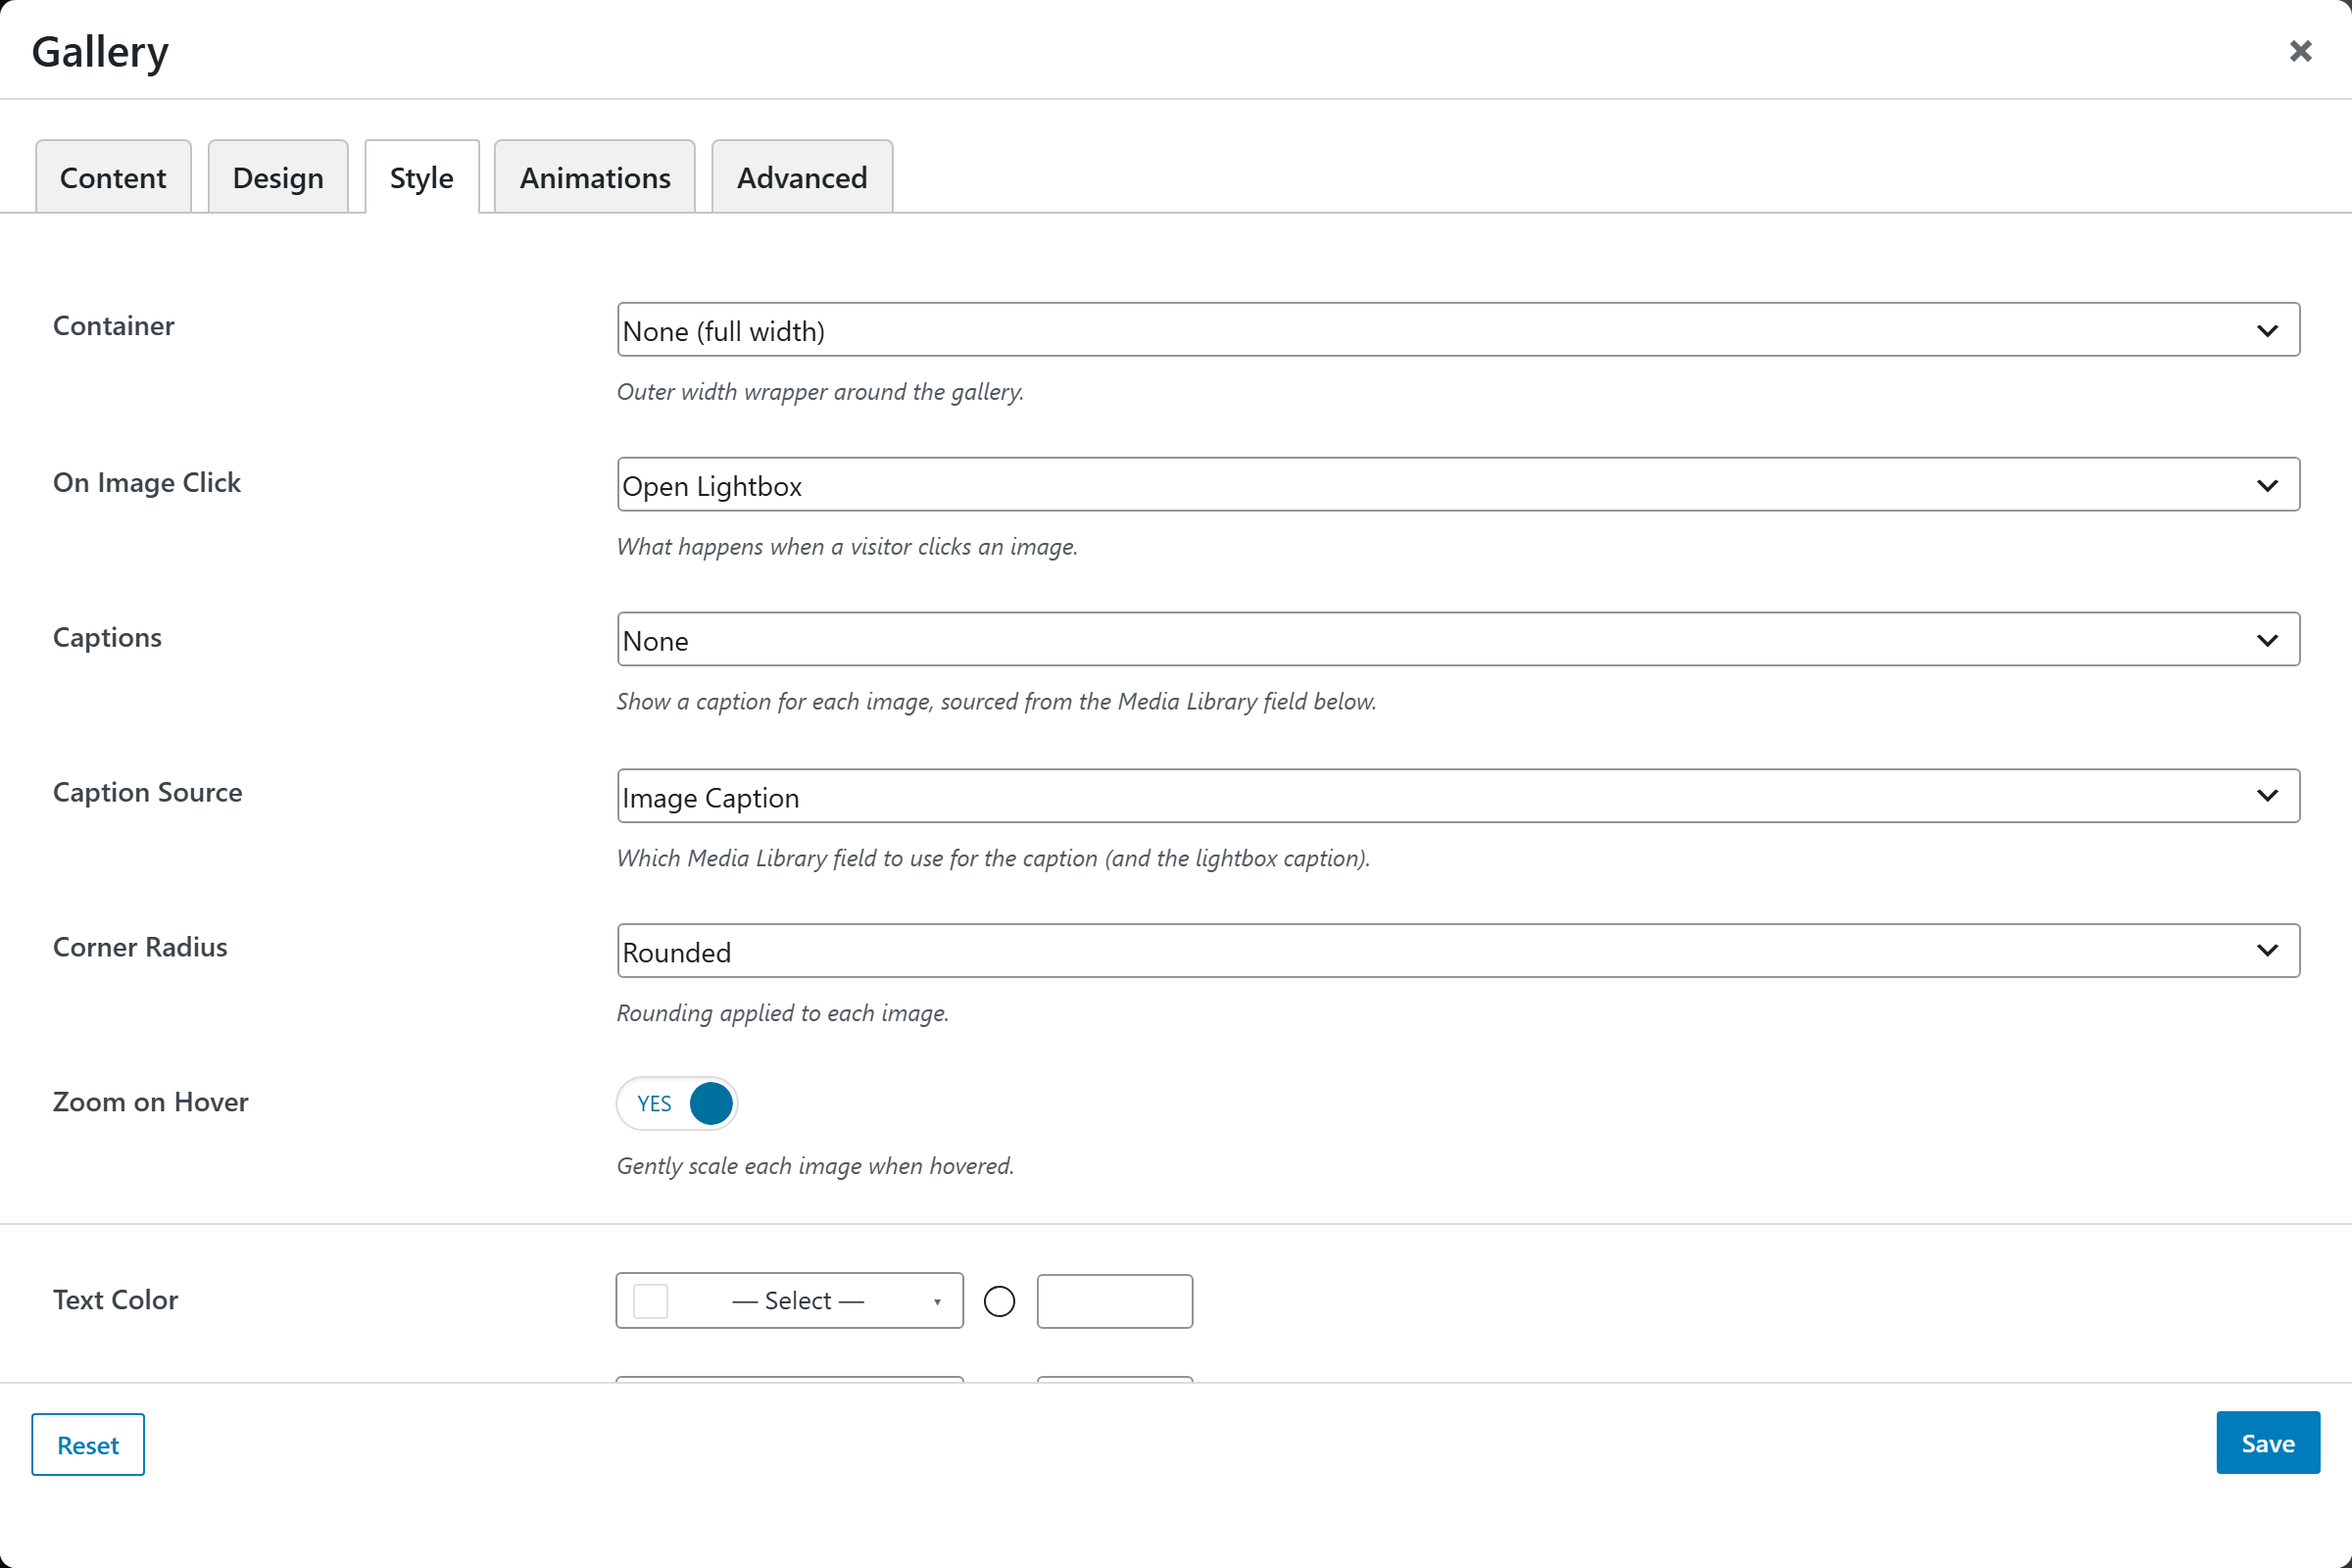
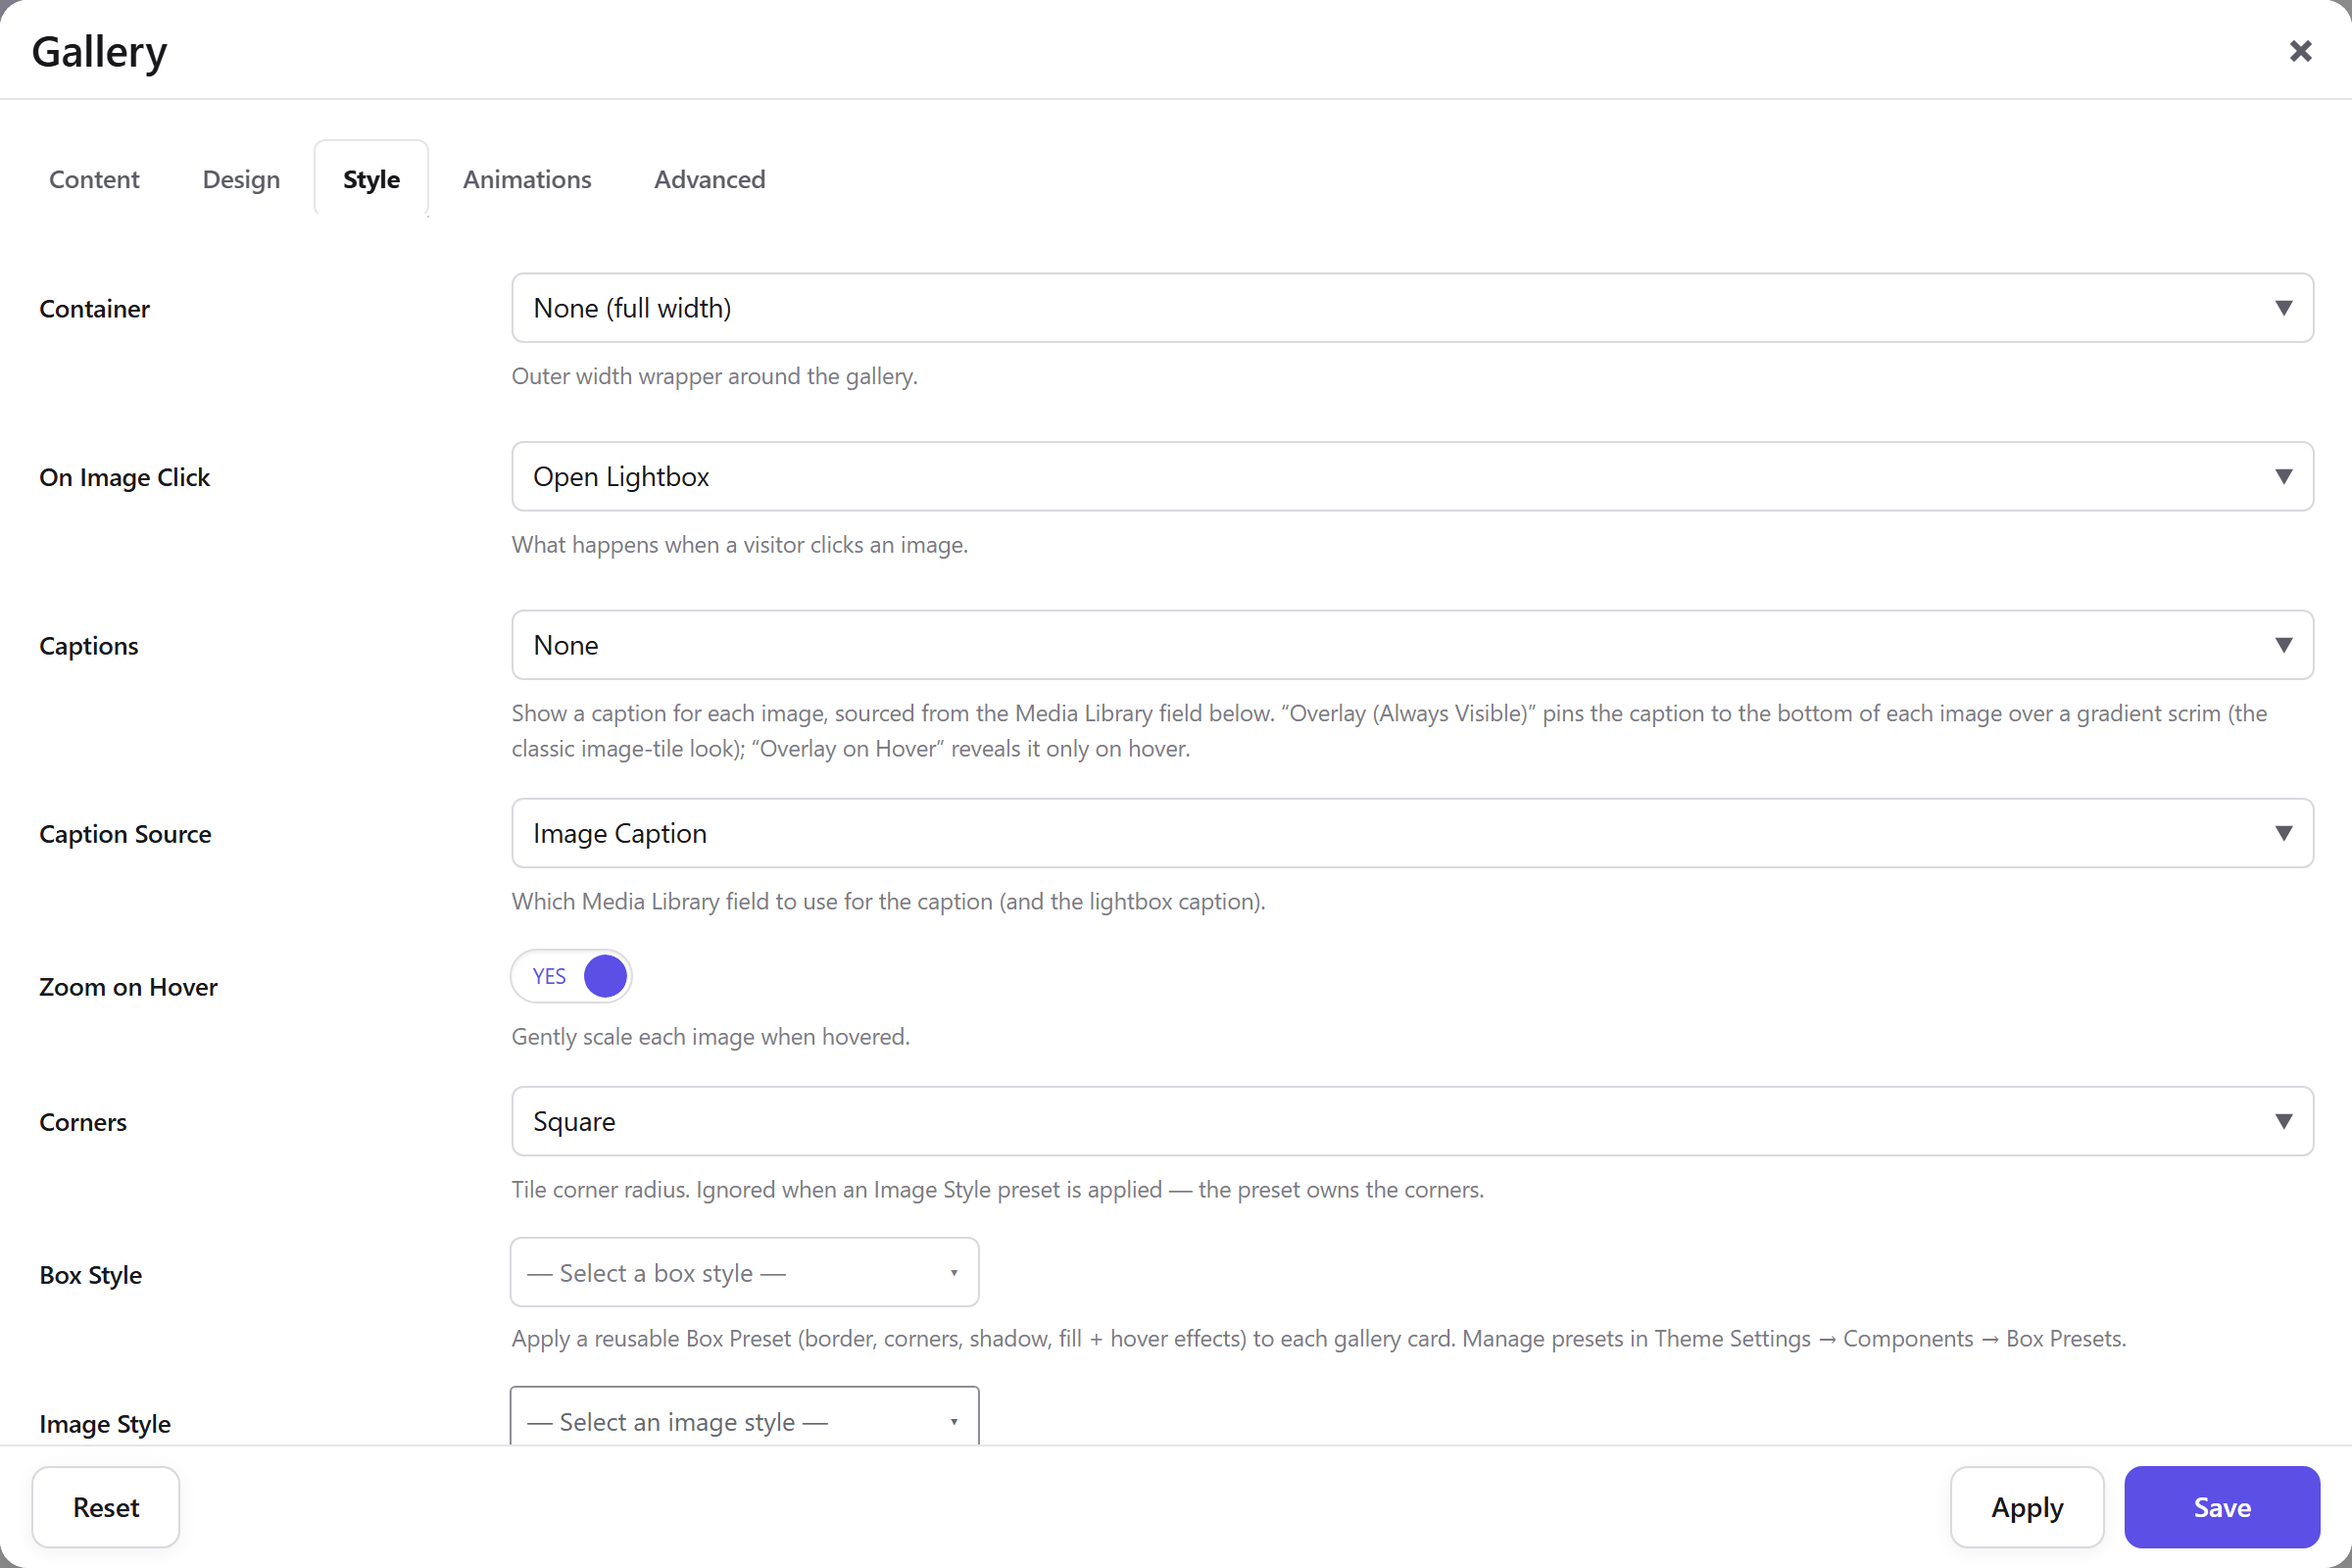
Gallery docs: the new Corners option (square by default; the Image Style preset owns the corners) + a re-captured Style panel; correct the 2x display widths the sizer found in lottie / map / media-image / media-video

diff --git a/docs/shortcodes/media-elements/media-image.md b/docs/shortcodes/media-elements/media-image.md
@@ -19,7 +19,7 @@ Give every image its real width and height (or an aspect ratio) so the browser r
 
 ## Content
 
-<img src="/img/shortcodes/media-image-content.png" alt="Image options panel — Content tab" width="1200" />
+<img src="/img/shortcodes/media-image-content.png" alt="Image options panel — Content tab" width="750" />
 
 - **Choose Image** — upload a new image or pick one from the media library. Source of truth is a WordPress attachment, so the alt text comes from the media library (never from the URL). Pick a source larger than the display size below so it stays sharp.
 - **Width** — a unit-input (number + unit; choices `px`, `%`, `vw`, `rem`, `em`; default `300px`). Applied as inline CSS so any unit previews correctly. When **both** Width and Height are in `px`, the source image is cropped to that exact size server-side via `fw_resize`, and the px value also becomes the HTML `width` attribute (reduces layout shift). Non-px units only scale the display. Leave Height empty to keep the aspect ratio.
@@ -29,7 +29,7 @@ Give every image its real width and height (or an aspect ratio) so the browser r
 
 ## Styling
 
-<img src="/img/shortcodes/media-image-styling.png" alt="Image options panel — Styling tab" width="1200" />
+<img src="/img/shortcodes/media-image-styling.png" alt="Image options panel — Styling tab" width="750" />
 
 - **Image Style** — a live-preview picker of the reusable **Image Style presets** (crop ratio, corner radius, shape mask, filter, scrim), managed in **Theme Settings → Components → Image Styles**.
 - **Background Color** — compact color picker (a `bg-*` preset or a custom hex) applied to the wrapper. With padding, this renders a colored frame around the image.

diff --git a/docs/shortcodes/media-elements/lottie.md b/docs/shortcodes/media-elements/lottie.md
@@ -19,7 +19,7 @@ A vector animation avoids the file weight of a video, but a large or complex `.j
 
 ## Content
 
-<img src="/img/shortcodes/lottie-content.png" alt="Lottie Animation options panel — Content tab" width="1200" />
+<img src="/img/shortcodes/lottie-content.png" alt="Lottie Animation options panel — Content tab" width="840" />
 
 - **Source** — where the animation comes from: URL (.json) (default) or Upload / Media Library.
 - **Lottie JSON URL** — a direct link to a `.json` animation (e.g. the "Lottie JSON" export from LottieFiles). Must be a `.json` Lottie/Bodymovin file, not a `.lottie` or GIF.
@@ -27,7 +27,7 @@ A vector animation avoids the file weight of a video, but a large or complex `.j
 
 ## Design
 
-<img src="/img/shortcodes/lottie-design.png" alt="Lottie Animation options panel — Design tab" width="1200" />
+<img src="/img/shortcodes/lottie-design.png" alt="Lottie Animation options panel — Design tab" width="840" />
 
 - **Trigger** — when the animation plays: Autoplay on load (default), Play when scrolled into view, Play on hover, or Play / pause on click.
 - **Loop** — repeat the animation. Defaults to Yes.
@@ -39,7 +39,7 @@ A vector animation avoids the file weight of a video, but a large or complex `.j
 
 ## Styling
 
-<img src="/img/shortcodes/lottie-styling.png" alt="Lottie Animation options panel — Styling tab" width="1200" />
+<img src="/img/shortcodes/lottie-styling.png" alt="Lottie Animation options panel — Styling tab" width="840" />
 
 - **Margin & Padding** — spacing around the element.
 

diff --git a/docs/shortcodes/media-elements/media-video.md b/docs/shortcodes/media-elements/media-video.md
@@ -17,7 +17,7 @@ Videos need **captions** (a `<track>`) for deaf and hard-of-hearing viewers — 
 
 ## Content
 
-<img src="/img/shortcodes/media-video-content.png" alt="Video options panel — Content tab" width="1200" />
+<img src="/img/shortcodes/media-video-content.png" alt="Video options panel — Content tab" width="750" />
 
 - **Insert Video URL** — text field. Paste a YouTube, Vimeo, or other oEmbed-supported page URL (e.g. `https://youtu.be/xxxx`) — not the raw `.mp4` file or an iframe embed code.
 - **Video Max Width** — a unit-input (number + unit; choices `px`, `%`, `vw`, `rem`, `em`; default `600px`). `px` is a fixed cap; `%` / `vw` are relative to the container / viewport. The video stays centered and the height follows the aspect ratio.
@@ -29,7 +29,7 @@ Videos need **captions** (a `<track>`) for deaf and hard-of-hearing viewers — 
 
 ## Styling
 
-<img src="/img/shortcodes/media-video-styling.png" alt="Video options panel — Styling tab" width="1200" />
+<img src="/img/shortcodes/media-video-styling.png" alt="Video options panel — Styling tab" width="750" />
 
 - **Background Color** — compact color picker (a `bg-*` preset or custom hex) applied to the wrapper.
 - **Margin & Padding** — spacing control. All Sides applies to every side at once; any per-side value (Top, Right, Bottom, Left) overrides it for that direction.

diff --git a/docs/shortcodes/media-elements/gallery.md b/docs/shortcodes/media-elements/gallery.md
@@ -56,6 +56,7 @@ Each design reveals its own options:
 | **Caption Source** | Image Caption · Image Title · Alt Text · Description |
 | **Image Style** | Any Image Style preset — crop, corners, mask, filter, scrim (Theme Settings → Components → Image Styles) |
 | **Zoom on Hover** | On/Off |
+| **Corners** | Square (default) · Rounded (6px) · Rounded large (12px) — ignored when an Image Style preset is applied, since the preset owns the corners |
 
 Plus **Text / Background / Title / Caption Color**, a **Font Size Preset**, and **Margin &
 Padding**.

diff --git a/docs/shortcodes/media-elements/map.md b/docs/shortcodes/media-elements/map.md
@@ -62,4 +62,4 @@ Capture a few representative tile styles: `map-osm-standard`, `map-carto-dark`,
 
 <img src="/img/shortcodes/map-styling.png" alt="Map options panel — Styling tab" width="840" />
 
-![Map options panel — Styling tab](/img/shortcodes/map-styling.png)
+<img src="/img/shortcodes/map-styling.png" alt="Map options panel — Styling tab" width="840" />
